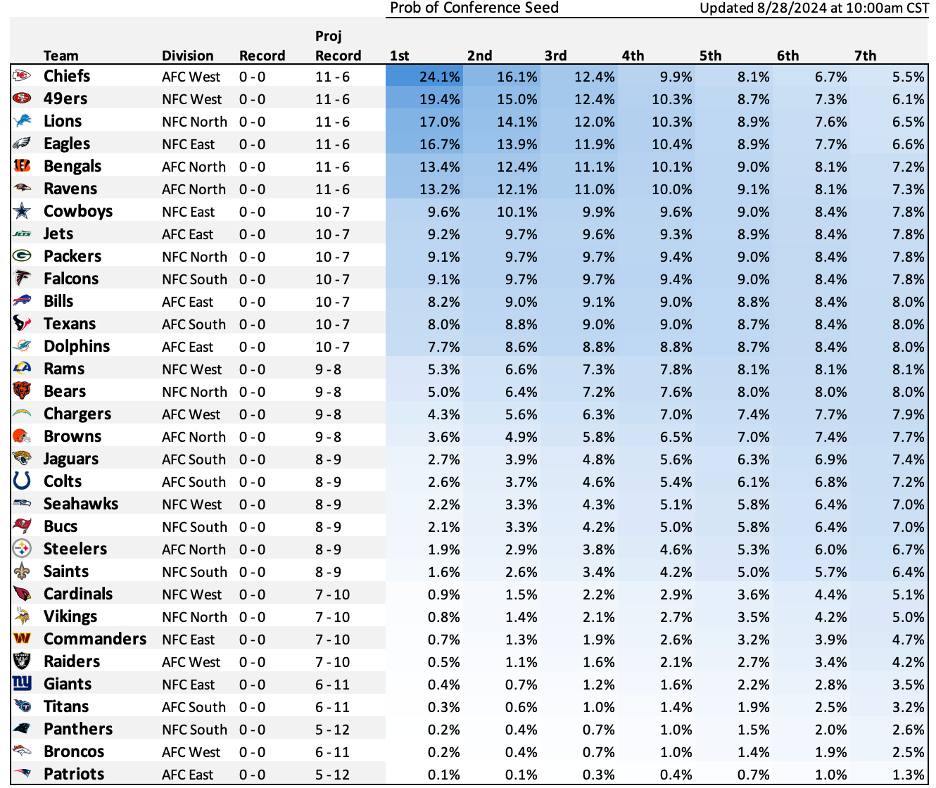
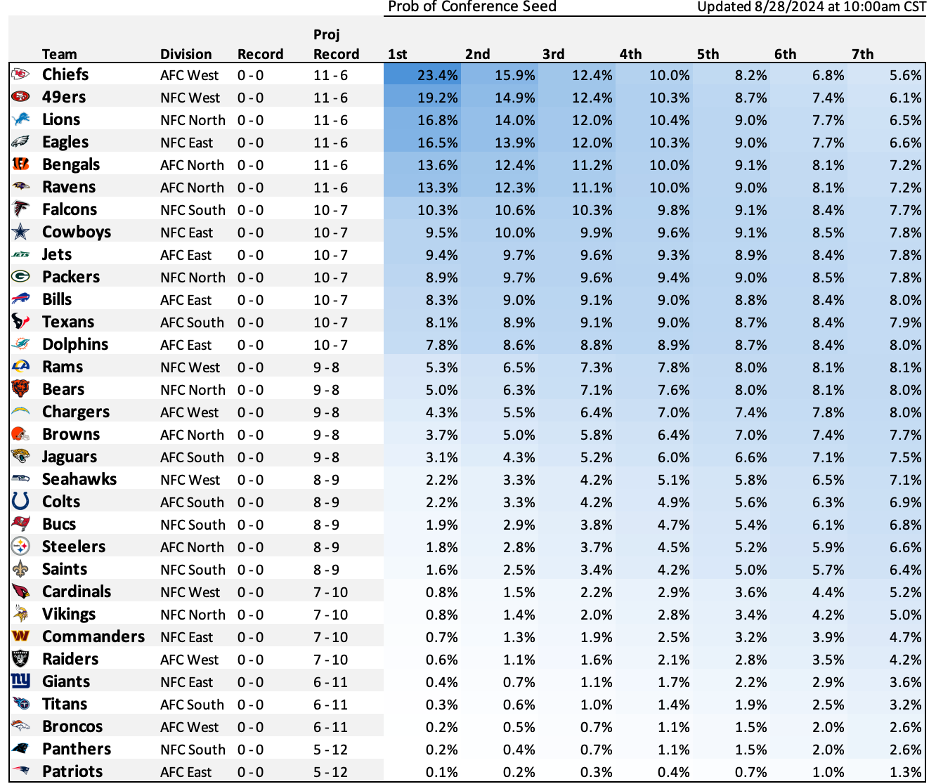
updates

Changed region(s): [[0.0, 0.0306, 1.0, 1.0], [0.4028, 0.0, 0.9915, 0.0306]]

diff --git a/_site/assets/js/lunrsearchengine.js b/_site/assets/js/lunrsearchengine.js
@@ -53,7 +53,7 @@ var documents = [{
     "id": 10,
     "url": "http://localhost:4000/nfl-odds2024/",
     "title": "NFL 2024 Forecast Model",
-    "body": "2024/08/28 - Updated Tuesday mornings following the conclusion of each NFL week. Full Season Forecast Regular Season Forecast Betting Tips  The Eagles have great Super Bowl value at +1400.  Our forecast gives them 1/12. 5 Super Bowl odds and a 28% chance to get to the NFC championship game.  For a sleeper Super Bowl pick, the Falcons at +3000 is our recommended bet. They are projected to have the easiest strength of schedule in the NFL and they have a 55% chance to win their division and play at least 1 home playoff game.  They also have the 4th best odds in the NFC to to earn the first round playoff bye.  The Browns to make the playoffs at +145 is great value for a team with a 42. 9% chance, despite a challenging division.  The Lions to earn NFC #1 seed at +600 and the Chiefs to earn AFC #1 seed +350 both payout high for their respective odds (Lions 17% and Chiefs 24%).  The Rams to win their division at +350 has slight edge given their 22. 9% probability to take the NFC West.  All 31 other division winner bets on Draftkings have negative edge. Methodology - The probabilities are calculated from the results of running 1 million simulations of the 2024 season.  Inputs into the simulation are derived from up-to-date Vegas odds, team schedules, and historical NFL data.  Following each week, the full simulation runs for refreshed odds. For questions, comments, suggestions, or access to the data, please reach out to Drew or Danny. "
+    "body": "2024/08/28 - Updated Tuesday mornings following the conclusion of each NFL week. Full Season Forecast Regular Season Forecast Betting Tips  The Eagles have great Super Bowl value at +1400.  Our forecast gives them 1/12. 5 Super Bowl odds and a 28% chance to get to the NFC championship game.  For a sleeper Super Bowl pick, the Falcons at +3000 is our recommended bet. They are projected to have the easiest strength of schedule in the NFL and they have a 59% chance to win their division and play at least 1 home playoff game.  They also have the 4th best odds in the NFC to to earn the first round playoff bye.  The Browns to make the playoffs at +145 is great value for a team with a 43% chance, despite a challenging division.  The Lions to earn NFC #1 seed at +600 and the Chiefs to earn AFC #1 seed +350 both payout high for their respective odds (Lions 17% and Chiefs 23%).  The Rams to win their division at +350 has slight edge given their 23% probability to take the NFC West.  All 31 other division winner bets on DraftKings have negative edge. Methodology - The probabilities are calculated from the results of running 1 million simulations of the 2024 season.  Inputs into the simulation are derived from up-to-date Vegas odds, team schedules, and historical NFL data.  Following each week, the full simulation runs for refreshed odds. For questions, comments, suggestions, or access to the data, please reach out to Drew or Danny. "
     }, {
     "id": 11,
     "url": "http://localhost:4000/parisolympics/",

diff --git a/_site/nfl-odds2024/index.html b/_site/nfl-odds2024/index.html
@@ -213,10 +213,10 @@
 <p><strong><em>Betting Tips</em></strong></p>
 <ul>
   <li>The Eagles have great Super Bowl value at +1400.  Our forecast gives them 1/12.5 Super Bowl odds and a 28% chance to get to the NFC championship game.</li>
-  <li>For a sleeper Super Bowl pick, the Falcons at +3000 is our recommended bet. They are projected to have the easiest strength of schedule in the NFL and they have a 55% chance to win their division and play at least 1 home playoff game.  They also have the 4th best odds in the NFC to to earn the first round playoff bye.</li>
-  <li>The Browns to make the playoffs at +145 is great value for a team with a 42.9% chance, despite a challenging division.</li>
-  <li>The Lions to earn NFC #1 seed at +600  and the Chiefs to earn AFC #1 seed +350 both payout high for their respective odds (Lions 17% and Chiefs 24%).</li>
-  <li>The Rams to win their division at +350 has slight edge given their 22.9% probability to take the NFC West.  All 31 other division winner bets on Draftkings have negative edge.</li>
+  <li>For a sleeper Super Bowl pick, the Falcons at +3000 is our recommended bet. They are projected to have the easiest strength of schedule in the NFL and they have a 59% chance to win their division and play at least 1 home playoff game.  They also have the 4th best odds in the NFC to to earn the first round playoff bye.</li>
+  <li>The Browns to make the playoffs at +145 is great value for a team with a 43% chance, despite a challenging division.</li>
+  <li>The Lions to earn NFC #1 seed at +600  and the Chiefs to earn AFC #1 seed +350 both payout high for their respective odds (Lions 17% and Chiefs 23%).</li>
+  <li>The Rams to win their division at +350 has slight edge given their 23% probability to take the NFC West.  All 31 other division winner bets on DraftKings have negative edge.</li>
 </ul>
 
 <p><strong>Methodology</strong> - The probabilities are calculated from the results of running 1 million simulations of the 2024 season.  Inputs into the simulation are derived from up-to-date Vegas odds, team schedules, and historical NFL data.  Following each week, the full simulation runs for refreshed odds.</p>

diff --git a/_posts/2024-08-28-nfl-odds2024.md b/_posts/2024-08-28-nfl-odds2024.md
@@ -27,10 +27,10 @@ Updated Tuesday mornings following the conclusion of each NFL week.
 
 ***Betting Tips***
 * The Eagles have great Super Bowl value at +1400.  Our forecast gives them 1/12.5 Super Bowl odds and a 28% chance to get to the NFC championship game.
-* For a sleeper Super Bowl pick, the Falcons at +3000 is our recommended bet. They are projected to have the easiest strength of schedule in the NFL and they have a 55% chance to win their division and play at least 1 home playoff game.  They also have the 4th best odds in the NFC to to earn the first round playoff bye.
-* The Browns to make the playoffs at +145 is great value for a team with a 42.9% chance, despite a challenging division.
-* The Lions to earn NFC #1 seed at +600  and the Chiefs to earn AFC #1 seed +350 both payout high for their respective odds (Lions 17% and Chiefs 24%).
-* The Rams to win their division at +350 has slight edge given their 22.9% probability to take the NFC West.  All 31 other division winner bets on Draftkings have negative edge.  
+* For a sleeper Super Bowl pick, the Falcons at +3000 is our recommended bet. They are projected to have the easiest strength of schedule in the NFL and they have a 59% chance to win their division and play at least 1 home playoff game.  They also have the 4th best odds in the NFC to to earn the first round playoff bye.
+* The Browns to make the playoffs at +145 is great value for a team with a 43% chance, despite a challenging division.
+* The Lions to earn NFC #1 seed at +600  and the Chiefs to earn AFC #1 seed +350 both payout high for their respective odds (Lions 17% and Chiefs 23%).
+* The Rams to win their division at +350 has slight edge given their 23% probability to take the NFC West.  All 31 other division winner bets on DraftKings have negative edge.  
 
 
 
